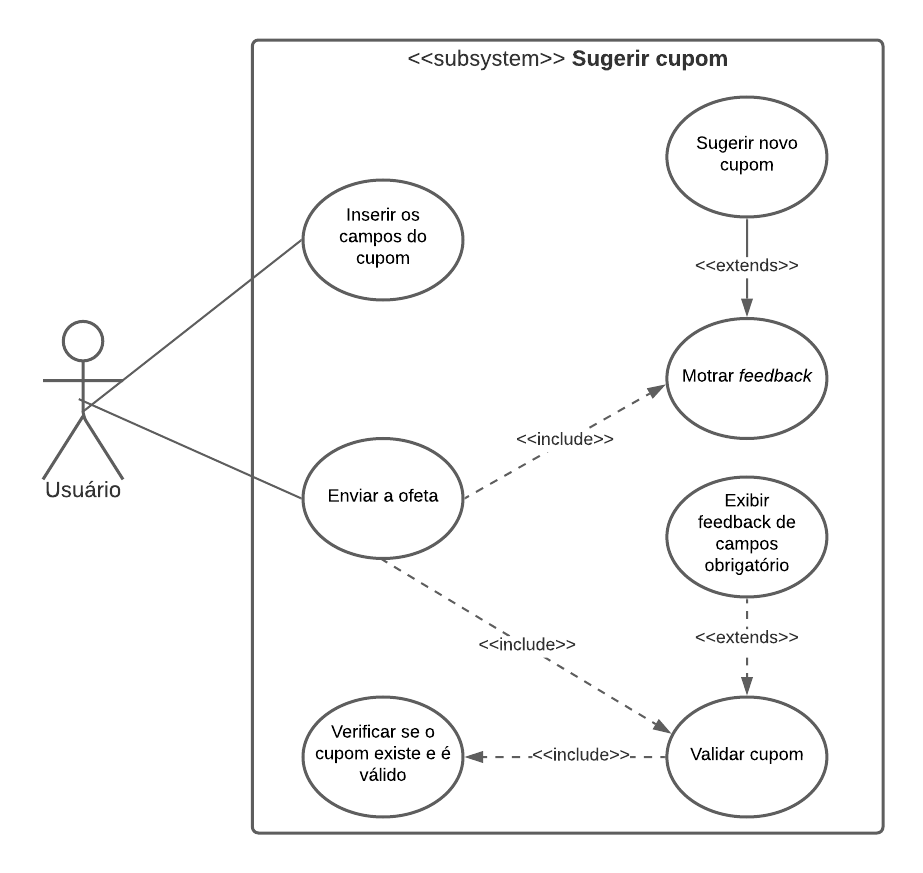
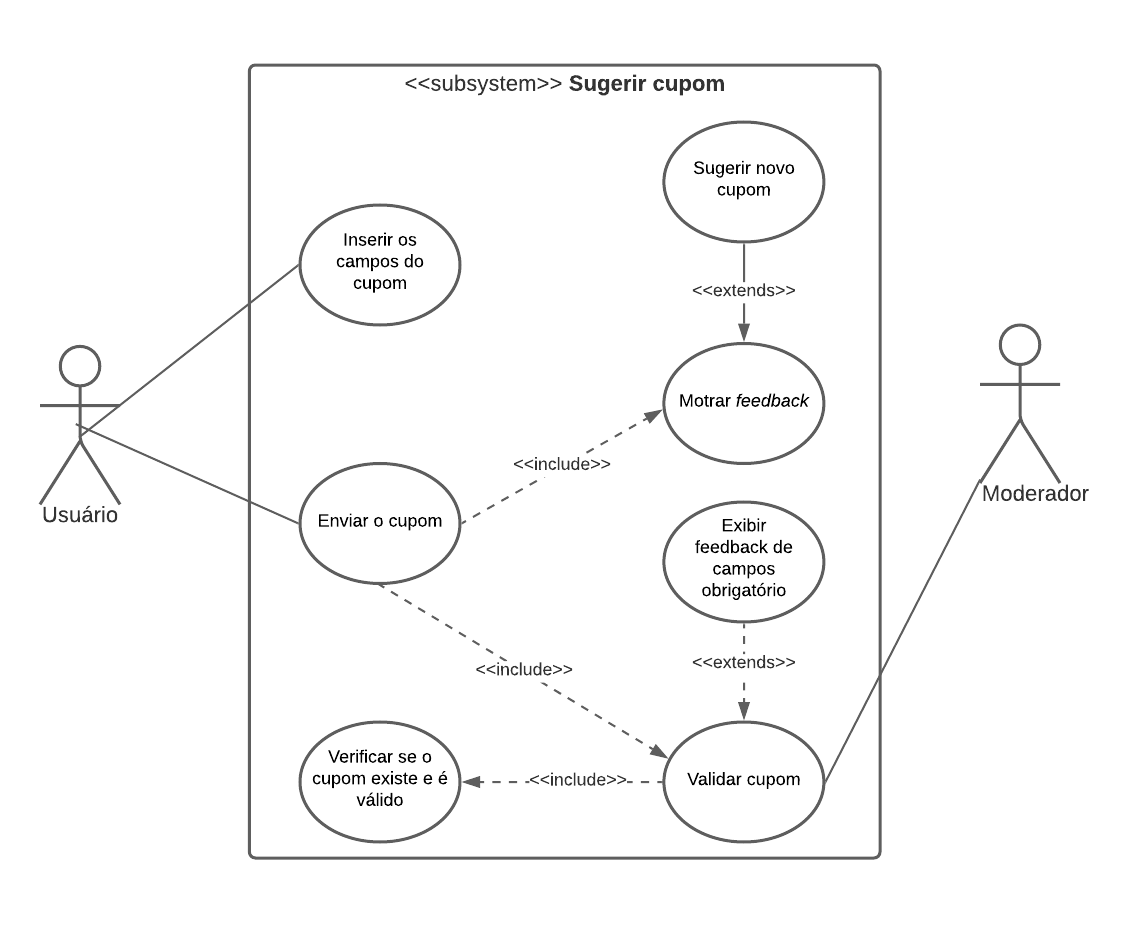
Correção caso de usos

diff --git a/docs/modelagem/caso_de_uso.md b/docs/modelagem/caso_de_uso.md
@@ -35,9 +35,9 @@ Um documento de caso de uso é uma metodologia que descreve como o usuário real
 |         UC02           |                                           Informações                                           |
 | :--------------------: | -------------------------------------------------------------------------------------------- |
 |       Descrição        | O ato do usuário sugerir um cupom que poderá ser publicado no sistema |
-|          Ator(es)      | Usuário |
+|          Ator(es)      | Usuário, moderador |
 |   Pré-condições        | O ator deve estar logado, deve estar na seção de "últimos cupons" e "cupons por loja" do sistema e deve ter o link e as informações de um cupom |
-|    Fluxo principal     | **FP01:** O ator sugere um cupom <br /> 1. O ator clica no icone de "+" <br /> 2. O sistema expõe uma lista de opções <br /> 3. O ator clica em sugerir cupom <br /> 4. O sistema redireciona o ator para a seção de sugerir um novo cupom <br /> 5. O ator preenche os campos de "Link da cupom", "Descreva o cupom", "Loja", "Código do cupom", "Regras de aplicação" <br /> 7. O ator clica no botão "Enviar cupom" <br /> 8. O sistema gera um pop-up para o autor com o feedback do envio <br /> 9. O ator clica em fechar <br /> 10. O ator é redirecionado para a aba de cupons. |
+|    Fluxo principal     | **FP01:** O ator sugere um cupom <br /> 1. O ator clica no icone de "+" <br /> 2. O sistema expõe uma lista de opções <br /> 3. O ator clica em sugerir cupom <br /> 4. O sistema redireciona o ator para a seção de sugerir um novo cupom <br /> 5. O ator preenche os campos de "Link da cupom", "Descreva o cupom", "Loja", "Código do cupom", "Regras de aplicação" <br /> 7. O ator clica no botão "Enviar cupom" <br /> 8. O sistema gera um pop-up para o autor com o feedback do envio <br /> 9. O ator clica em fechar <br /> 10. O ator é redirecionado para a aba de cupons. <br /><br /> **FP02:** Moderador valida tópico no fórum <br /> 1. Moderador acessa página de submissões pendentes <br /> 2. Moderador verifica se o tópico é válido <br /> 3. Moderador aceita ou rejeita o tópico proposto |
 | Fluxo alternativo      | **FA01:** Fluxo de quando o ator deseja sugerir um cupom seguido de um anterior <br /> 1. O ator clica no icone de "+" <br /> 2. O sistema expõe uma lista de opções <br /> 3. O ator clica em sugerir cupom <br /> 4. O sistema redireciona o ator para a seção de sugerir um novo cupom <br /> 5. O ator preenche os campos de "Link da cupom", "Descreva o cupom", "Loja", "Código do cupom", "Regras de aplicação" <br /> 7. O ator clica no botão "Enviar cupom" <br /> 8. O sistema gera um pop-up para o autor com o feedback do envio <br /> 9. O ator clica em "Adicionar outra" <br /> 10. O ator é redirecionado para a aba de cupons. |
 |   Fluxo de exceções    | **FE01:** O ator não completa os campos obrigatórios para sugerir o cupom <br /> 1. O ator clica no icone de "+" <br /> 2. O sistema expõe uma lista de opções <br /> 3. O ator clica em sugerir cupom <br /> 4. O sistema redireciona o ator para a seção de sugerir um novo cupom <br /> 5. O ator preenche os campos de "Link da cupom", "Descreva o cupom", "Loja", "Código do cupom", "Regras de aplicação" <br /> 7. O ator clica no botão "Enviar cupom" <br /> 8. O sistema gera um pop-up alertando o ator sobre a necessidade de preencher o campo obrigatório <br /><br /> **FE02:** Ocorre a perda de conexão durante o uso do aplicativo <br /> 1. O ator clica no icone de "+" <br /> 2. O sistema expõe uma lista de opções <br /> 3. O ator clica em sugerir cupom <br /> 4. O sistema gera um pop-up alertando sobre a impossibilidade de realizar a ação <br /> 5. O ator clica no botão "ok" |
 |     Pós condições      | O ator poderá ter um cupom publicado, caso esse seja válido, e o ator terá o cupom que sugeriu no seu histórico de cupons |
@@ -53,8 +53,9 @@ Um documento de caso de uso é uma metodologia que descreve como o usuário real
 |       Descrição        | O ato do usuário sugerir um tópico no fórum do sistema |
 |       Ator(es)         | Usuário, moderador |
 |      Pré-condições     | O ator deve estar logado, e deve estar na seção de fórum do sistema. |
-|    Fluxo principal     | **FP01:** Ator sugere um tópico no fórum <br /> 1. O ator clica no icone de "+" <br /> 2. O sistema redireciona o ator para a seção de novo tópico no fórum <br /> 3. O ator preenche os campos de "Título do fórum", "Categoria do fórum" e "Descrição do tópico" <br /> 4. O ator clica no botão "Enviar tópico" <br /> 5. O sistema gera um pop-up para o autor com o feedback do envio <br /> 6. O ator clica em fechar <br /> 7. O ator é redirecionado para a aba de fórum. |
-| Fluxo alternativo      | **FA01:** Ator sugere outro tópico no fórum logo após sugerir um<br /> 1. O ator clica no icone de "+" <br /> 2. O sistema redireciona o ator para a seção de novo tópico no fórum <br /> 3. O ator preenche os campos de "Título do fórum", "Categoria do fórum" e "Descrição do tópico" <br /> 4. O ator clica no botão "Enviar tópico" <br /> 5. O sistema gera um pop-up para o autor com o feedback do envio <br /> 6. O ator clica em "Adicionar outra" <br /> 7. O ator é redirecionado para a aba de sugerir oferta.|
+|    Fluxo principal     | **FP01:** Ator sugere um tópico no fórum <br /> 1. O ator clica no icone de "+" <br /> 2. O sistema redireciona o ator para a seção de novo tópico no fórum <br /> 3. O ator preenche os campos de "Título do fórum", "Categoria do fórum" e "Descrição do tópico" <br /> 4. O ator clica no botão "Enviar tópico" <br /> 5. O sistema gera um pop-up para o autor com o feedback do envio <br /> 6. O ator clica em fechar <br /> 7. O ator é redirecionado para a aba de fórum 
+**FP02:** Moderador valida tópico no fórum <br /> 1. Moderador acessa página de submissões pendentes <br /> 2. Moderador verifica se o tópico é válido <br /> 3. Moderador aceita ou rejeita o tópico proposto |
+| Fluxo alternativo | **FA01:** Ator sugere outro tópico no fórum logo após sugerir um<br /> 1. O ator clica no icone de "+" <br /> 2. O sistema redireciona o ator para a seção de novo tópico no fórum <br /> 3. O ator preenche os campos de "Título do fórum", "Categoria do fórum" e "Descrição do tópico" <br /> 4. O ator clica no botão "Enviar tópico" <br /> 5. O sistema gera um pop-up para o autor com o feedback do envio <br /> 6. O ator clica em "Adicionar outra" <br /> 7. O ator é redirecionado para a aba de sugerir oferta |
 |   Fluxo de exceções    | **FE01:** Ator não preenche todas as informações para sugestão de tópico no fórum <br /> 1. O ator clica no icone de "+" <br /> 2. O sistema redireciona o ator para a seção de novo tópico no fórum <br /> 3. O ator não preenche um dos campos de "Título do fórum", "Categoria do fórum" ou "Descrição do tópico" <br /> 4. O ator clica no botão "Enviar tópico" <br /> 5. O sistema alerta o autor sobre a necessidade de inserção de informações do campo obrigatório não preenchido. <br /><br /> **FE02:** Ator não possui conexão com a internet <br /> 1. O ator clica no icone de "+" <br /> 2. O sistema redireciona o ator para a seção de novo tópico no fórum <br /> 3. O ator não preenche um dos campos de "Título do fórum", "Categoria do fórum" ou "Descrição do tópico" <br /> 4. O ator clica no botão "Enviar tópico" <br /> 4. O sistema gera um pop-up alertando sobre a impossíbilidade de realizar a ação <br /> 5. O ator clica no botão "ok" |
 |     Pós condições      | O ator poderá ter um tópico publicado no fórum caso ele seja aprovado e o ator terá o tópico sugerido em seu histórico de tópicos no fórum |
 |    Rastreabilidade     | Requisito Funcional 10 do documento contendo todos os requisitos - RF10 Cadastrar tópico no fórum |
@@ -202,3 +203,4 @@ Um documento de caso de uso é uma metodologia que descreve como o usuário real
 | 11.0.0 | 14/10/2020 | Adição do caso de uso de realizar cadastro | Marcelo Victor |
 | 12.0.0 | 16/10/2020 | Adição do caso de uso de visualizar tópico no fórum | Thiago Lopes |
 | 12.1.0 | 16/10/2020 | Correções gerais | Thiago Lopes |
+| 12.2.0 | 25/10/2020 | Correções nos casos de uso | Todos os integrantes |
